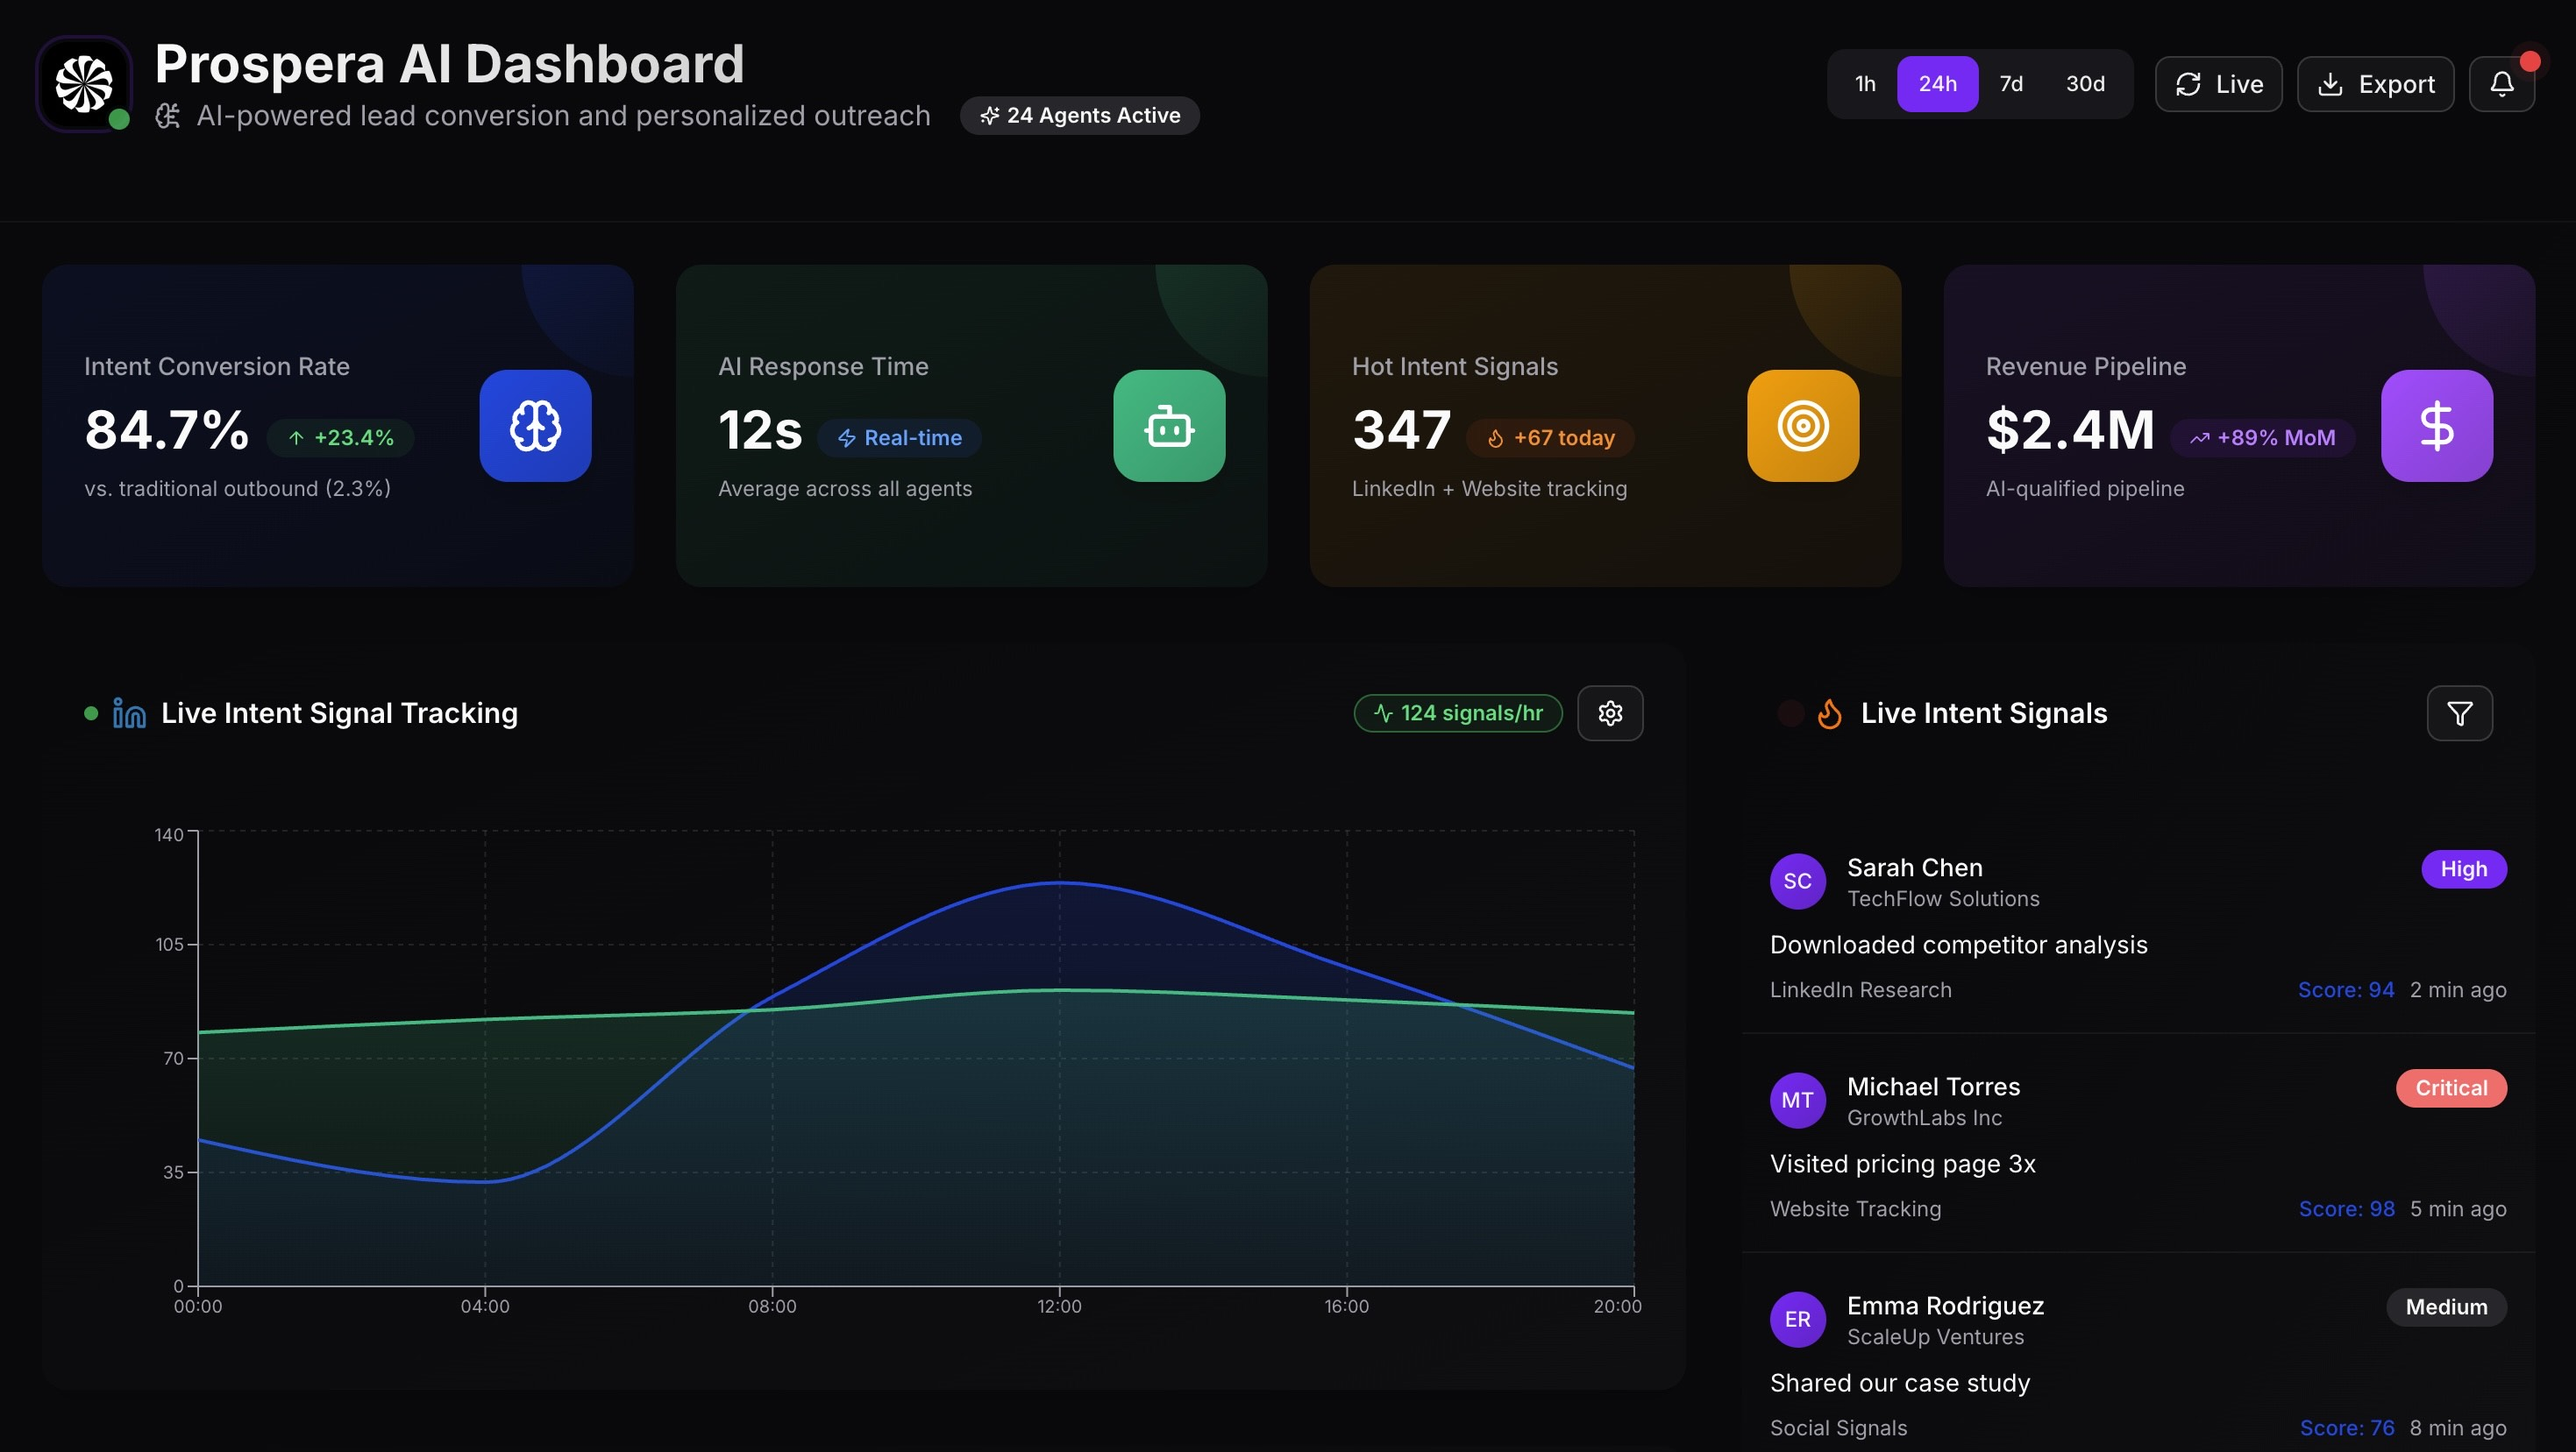
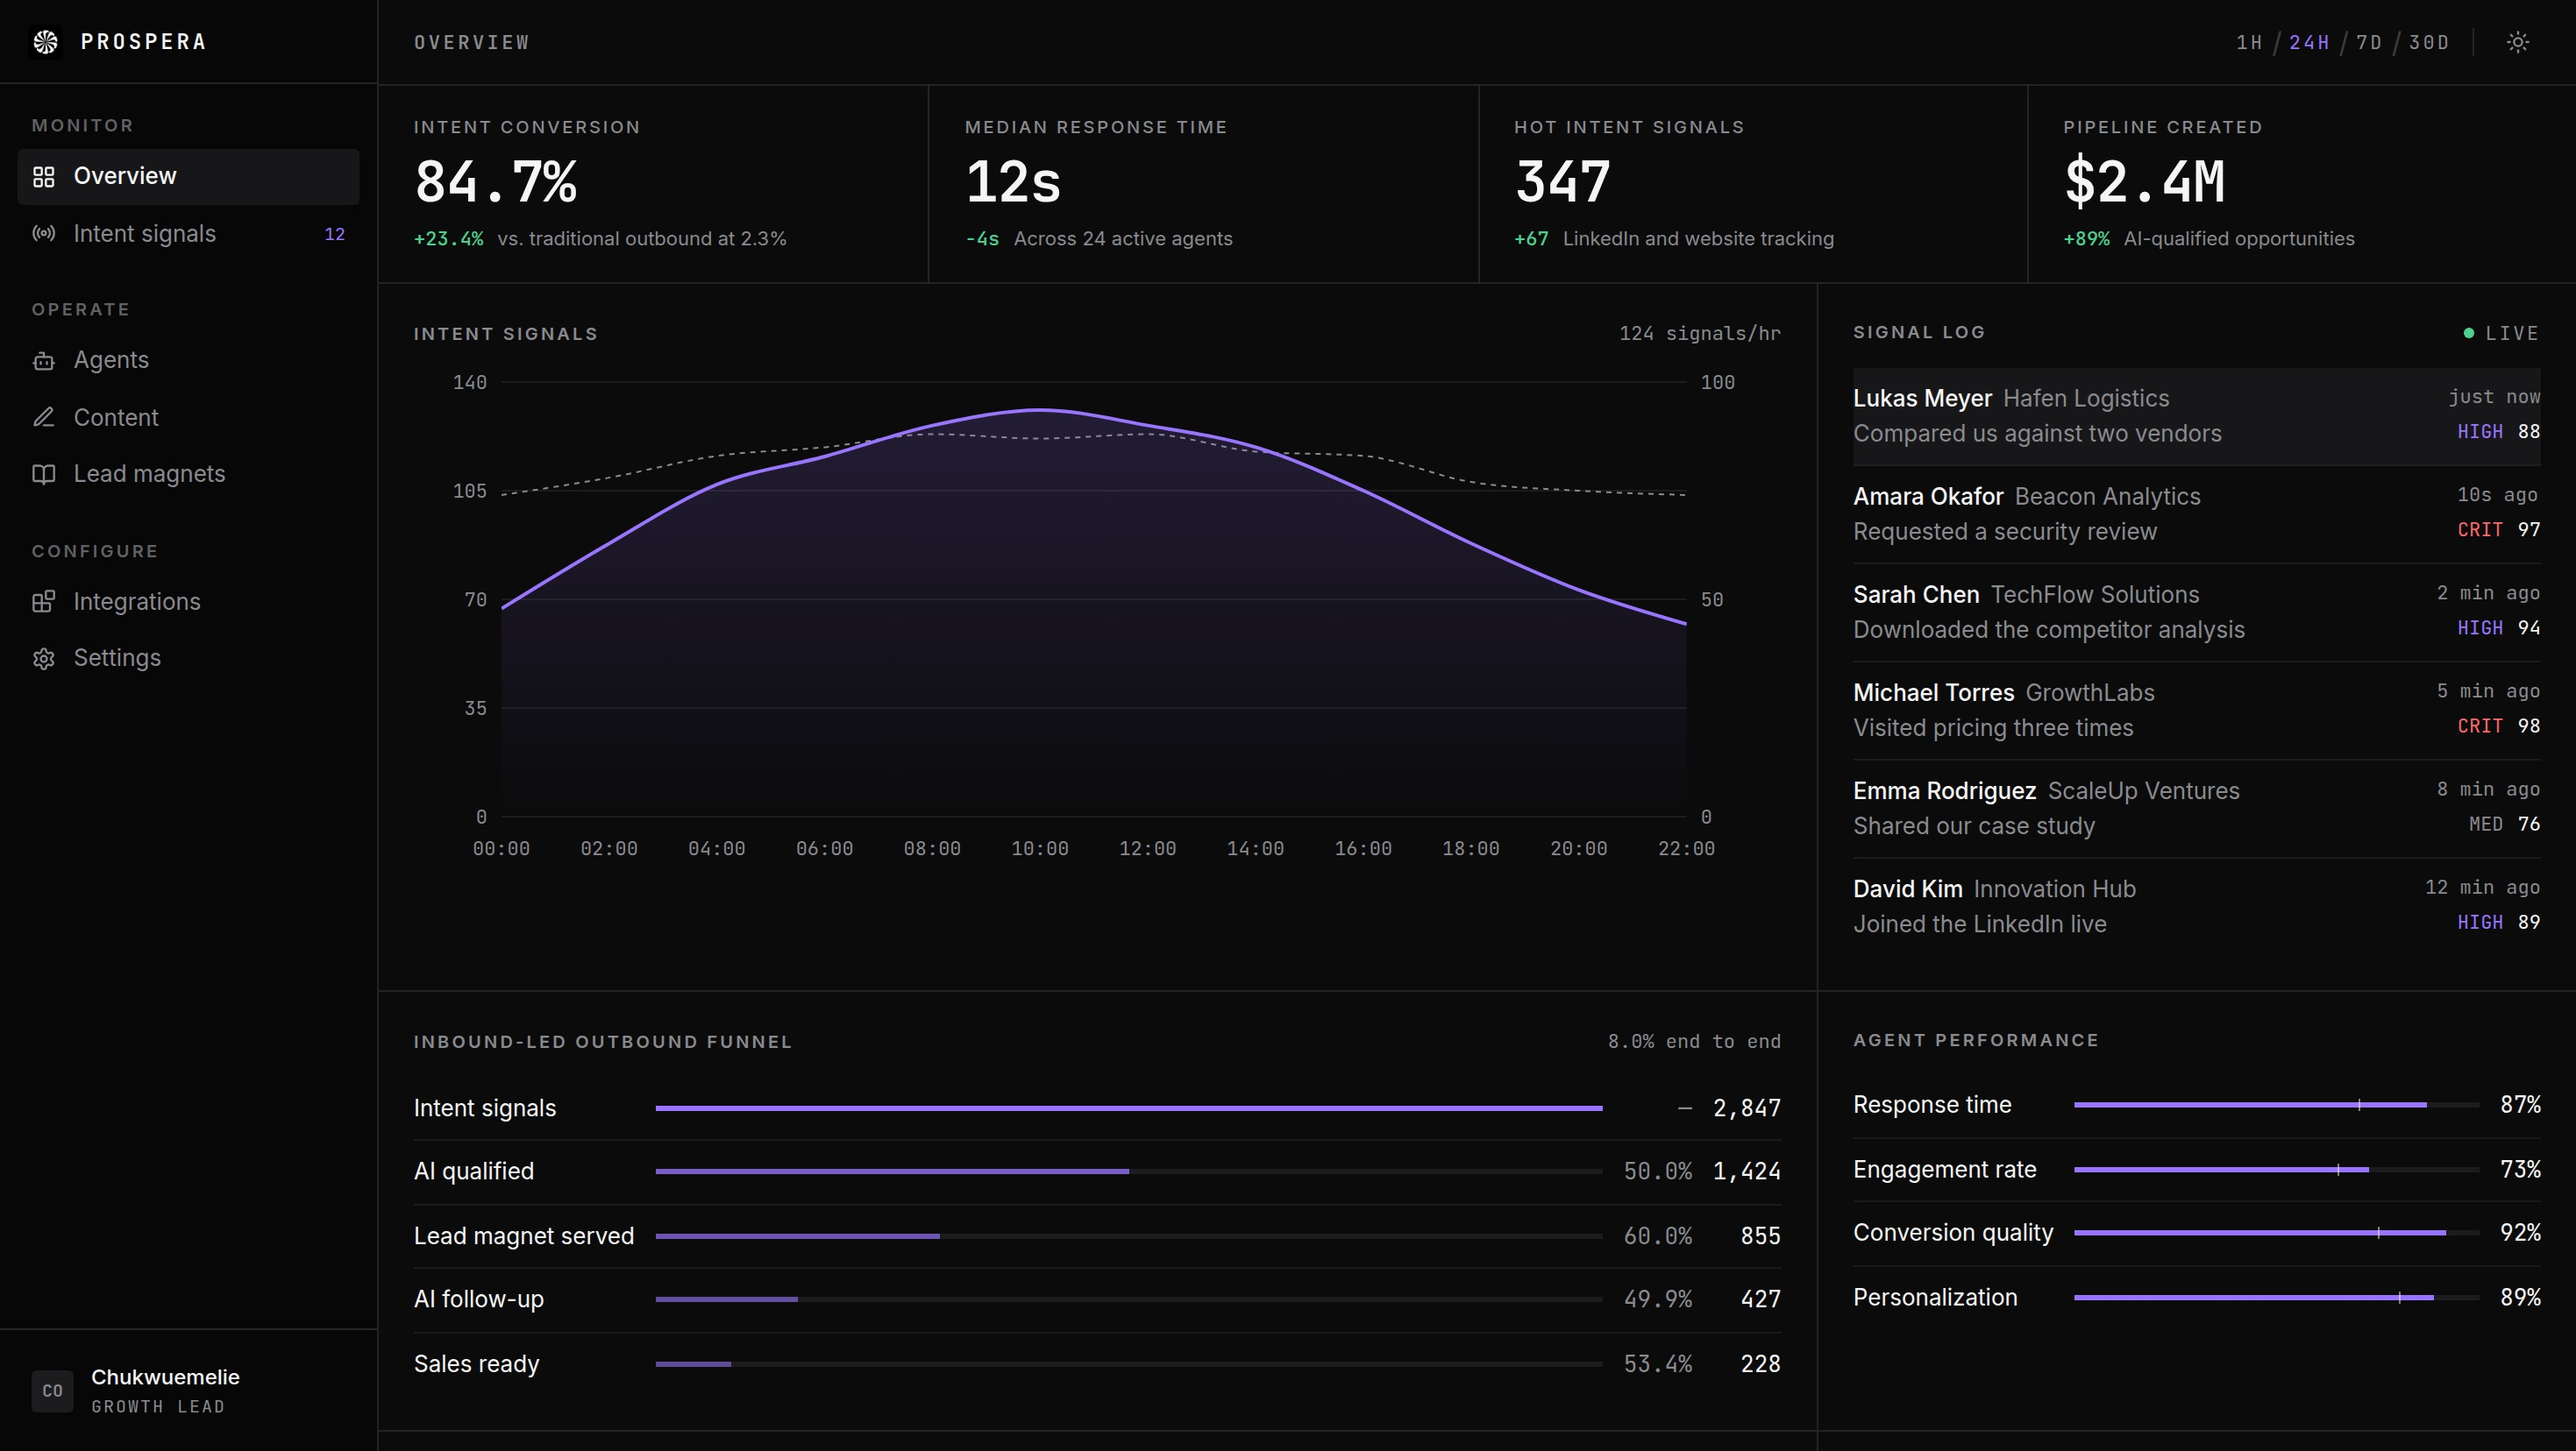
chore: update the Prospera dashboard screenshot and stack copy (#9)
Replaces the project screenshot with the rebuilt dashboard UI, captured at 2x
device scale (2938x1656) to match the other project images and taken against a
production build so the dev overlay is not baked in.

Also corrects the stack copy: the rebuild removed every shadcn primitive along
with the components that used them, so the UI is now plain Tailwind over a
CSS-variable token set. Lists Recharts instead, which the intent chart uses.

diff --git a/src/pages/index.tsx b/src/pages/index.tsx
@@ -356,7 +356,7 @@ export default function Home() {
                 descriptionParagraphs={[
                   "This is a dashboard mockup created for Prospera AI, a company that helps increase lead conversion rates with AI-generated personalised Lead Magnets and Agentic Follow ups.",
                   "Features a user interface with analytics and metrics for intent signal tracking, AI-powered personalized content generation, and automated lead magnet insights.",
-                  "Built with: Next.js, Tailwind CSS, Shadcn UI",
+                  "Built with: TypeScript, Next.js, Tailwind CSS, Recharts",
                 ]}
                 image="/images/prospera-ai-dashboard.jpeg"
                 githubLink="https://github.com/jason-ezenwa/prospera-ai-dashboard"
